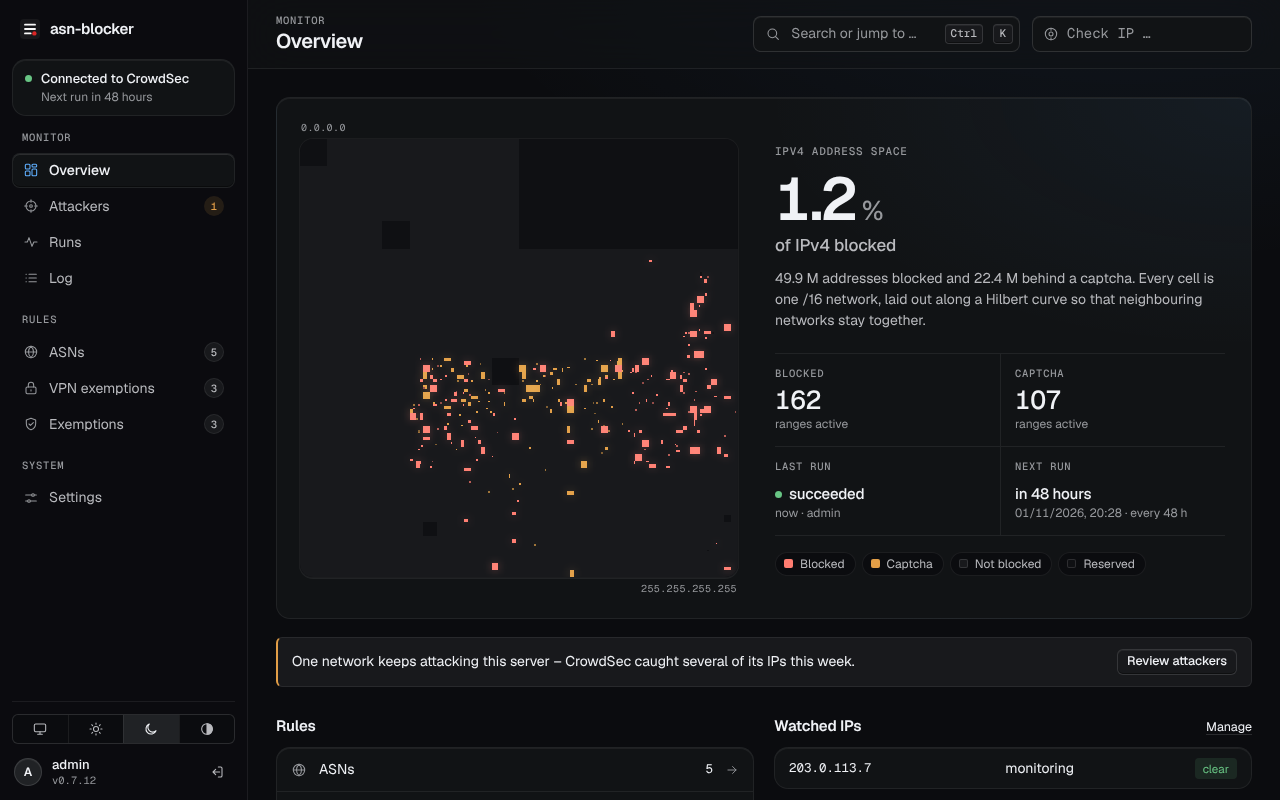
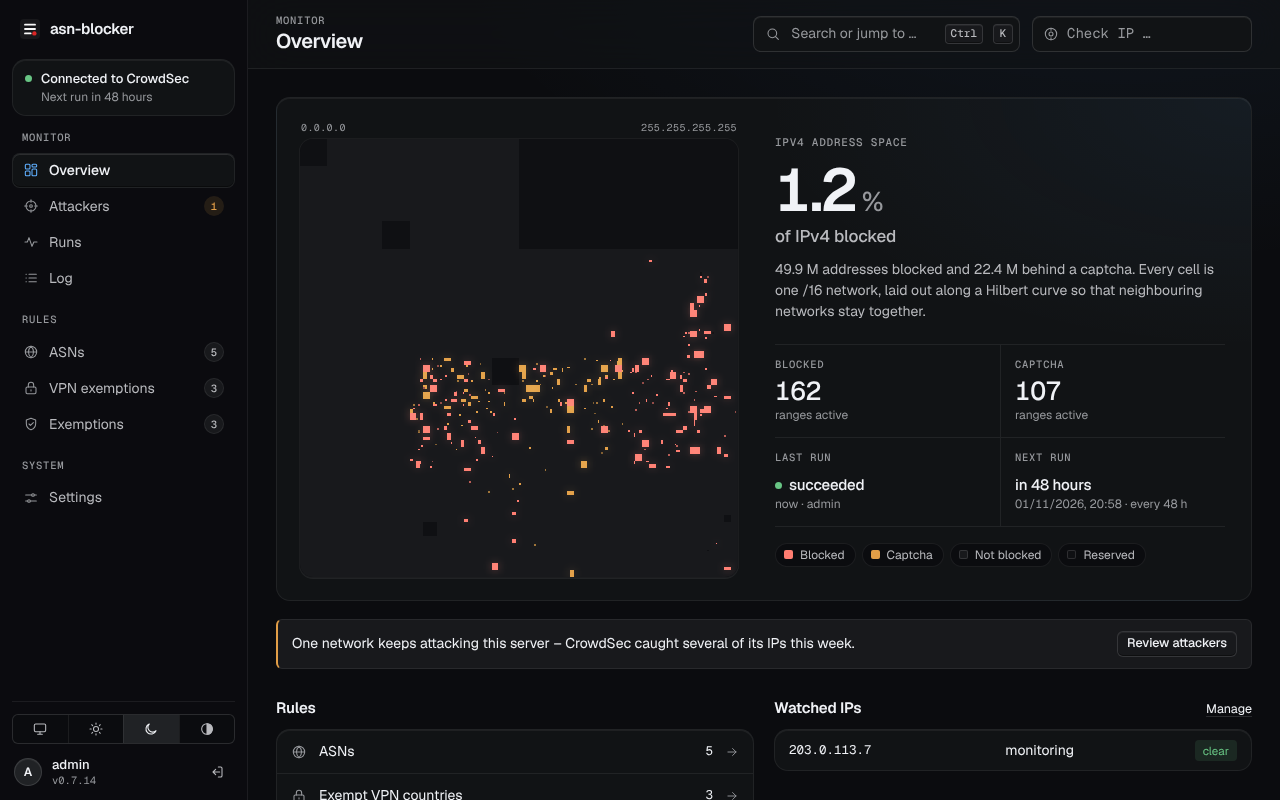
0.7.14: map end label at the top right (#56)
The Hilbert curve runs from 0.0.0.0 (top left) to 255.255.255.255 (top
right); the end label was wrongly placed at the bottom right.

Claude-Session: https://claude.ai/code/session_01HbLjfwzcT3WzCXDedDw1Mp

diff --git a/app/static/js/views/overview.js b/app/static/js/views/overview.js
@@ -27,11 +27,11 @@ function Atlas({ runKey, children }) {
   }, [data]);
   const share = (n) => (n / 2 ** 32 * 100).toLocaleString(locale(), { maximumFractionDigits: n / 2 ** 32 < 0.001 ? 3 : 1 });
   const any = data && (data.ban.addresses || data.captcha.addresses);
-  // the frame carries the corner addresses; the stage itself is cleared and filled by the map
+  // the frame carries where the curve starts (top left) and ends (top right); the stage itself is cleared and filled by the map
   return html`<div class="atlas-frame"><div class="atlas-stage" id="atlas-stage" ref=${stage} role="img"
       aria-label=${data ? t("Map of the IPv4 address space: {p} % blocked, {c} % behind a captcha.", { p: share(data.ban.addresses), c: share(data.captcha.addresses) })
         : t("Map of the IPv4 address space, one cell per /16 network; loading")}></div>
-      <span class="tick tl mono" aria-hidden="true">0.0.0.0</span><span class="tick br mono" aria-hidden="true">255.255.255.255</span></div>
+      <span class="tick tl mono" aria-hidden="true">0.0.0.0</span><span class="tick tr mono" aria-hidden="true">255.255.255.255</span></div>
     <div class="atlas-side"><${AtlasText} data=${data} any=${any} share=${share} />${children}</div>`;
 }
 

diff --git a/app/static/app.css b/app/static/app.css
@@ -371,9 +371,10 @@ dialog.sheet .nav a { min-height: 44px; }
 .atlas { display: grid; grid-template-columns: minmax(0, 440px) minmax(0, 1fr); gap: 36px; align-items: center; padding: 22px 26px 22px 22px; }
 .hero { background: radial-gradient(700px 360px at 100% 0%, oklch(var(--l-accent) var(--accent-c) var(--accent-h) / 0.06), transparent 70%), var(--bg-1); }
 :root[data-theme="oled"] .hero { background: var(--bg-1); }
-.atlas-frame { position: relative; padding: 18px 0; }
+.atlas-frame { position: relative; padding-top: 18px; }
 .tick { position: absolute; font-size: 10px; letter-spacing: 0.04em; color: var(--text-3); }
-.tick.tl { top: 0; left: 2px; } .tick.br { bottom: 0; right: 2px; }
+/* the Hilbert curve runs from 0.0.0.0 in the top left corner to 255.255.255.255 in the top right one */
+.tick.tl { top: 0; left: 2px; } .tick.tr { top: 0; right: 2px; }
 .atlas-stage { position: relative; aspect-ratio: 1; border-radius: var(--r-lg); overflow: hidden; background: var(--bg-0); border: 1px solid var(--line);
   box-shadow: inset 0 1px 0 rgb(255 255 255 / 0.03), 0 1px 0 var(--line); }
 .atlas canvas { display: block; width: 100%; height: 100%; image-rendering: pixelated; }

diff --git a/app/__init__.py b/app/__init__.py
@@ -1,2 +1,2 @@
 """asn-blocker: block or captcha whole networks in CrowdSec by their AS number."""
-VERSION = "0.7.13"
+VERSION = "0.7.14"

diff --git a/CHANGELOG.md b/CHANGELOG.md
@@ -1,5 +1,9 @@
 # Changelog
 
+## 0.7.14 (2026-10-30)
+- Overview: the map's end label (255.255.255.255) is at the top right, where the curve really ends, instead of the
+  bottom right
+
 ## 0.7.13 (2026-10-30)
 - Shorter README: what is needed first (CrowdSec, a bouncer, Docker), installation and how it works; details moved
   to `docs/`, development to `CONTRIBUTING.md`. New screenshots, including the Attackers view, the IP check and a phone
